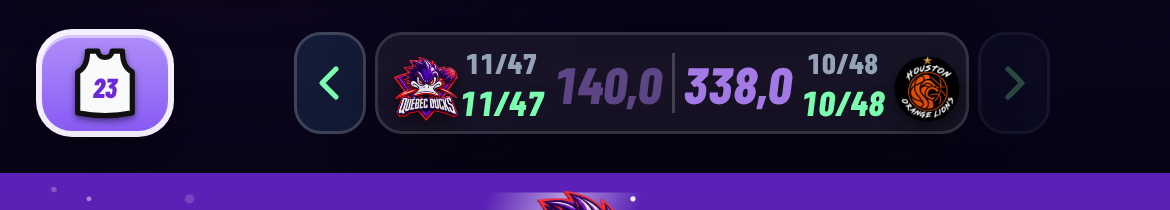
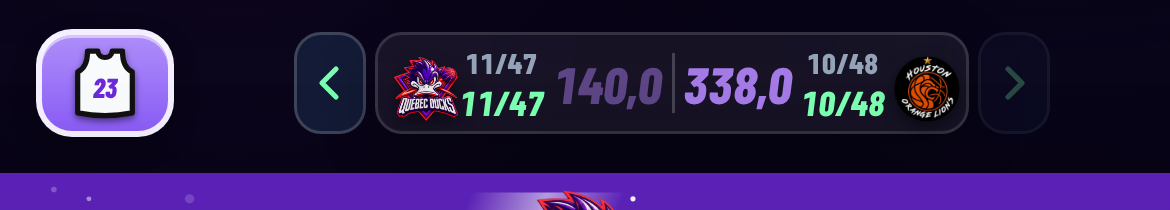
Ducks: nuova maglia Casa, tolta la viola col gessato nero (v61)
Claude-Session: https://claude.ai/code/session_01FtktU2z5U25oG1RZDpQNAc

Changed region(s): [[0.4, 0.9143, 0.5538, 1.0]]

diff --git a/kit.js b/kit.js
@@ -141,8 +141,10 @@ function nbaDi(t,pl){if(!pl)return null;const R=typeof ROSE!=="undefined"&&ROSE[
    Per aggiungerne una (es. la terza disegnata con l utente) basta un {nome,svg,ico} in fondo a QUE_KITS. */
 /* colore del bordo dell icona del tasto, dal nome della maglia */
 const queTrim=nm=>/^rossa/i.test(nm)?(/viola/i.test(nm)?"#6d28d9":"#ffffff"):/^viola/i.test(nm)?(/rosse/i.test(nm)?"#e11d2e":"#111111"):/viola fuori/i.test(nm)?"#8b3dff":/rosso/i.test(nm)?"#e11d2e":"#ffffff";
-const QUE_KITS=[{nome:"Casa",svg:()=>CAMPO_ART.jersey0,ico:{bg:"#6d28d9",fg:"#ffffff",trim:"#111111"}},{nome:"Notte",svg:()=>CAMPO_ART.jersey1,ico:{bg:"#f8fafc",fg:"#6d28d9",trim:"#111111"}}]
- .concat((window.QUE_ROSSE||[]).map(x=>({nome:x.nome,svg:()=>x.svg,ico:{bg:((x.svg.match(/stop-color="(#[0-9a-fA-F]{6})"/)||[])[1])||"#6d28d9",fg:"#ffffff",trim:queTrim(x.nome)}})));
+/* (61) tolta la vecchia Casa viola col gessato nero (CAMPO_ART.jersey0): la Casa ora è la «Viola · lettere nere» col gessato bianco (tolta dalle maglie in più) */
+const QUE_CASA=(window.QUE_ROSSE||[]).find(x=>x.nome==="Viola · lettere nere");
+const QUE_KITS=[{nome:"Casa",svg:()=>QUE_CASA?QUE_CASA.svg:CAMPO_ART.jersey0,ico:{bg:"#7c3aed",fg:"#ffffff",trim:"#111111"}},{nome:"Notte",svg:()=>CAMPO_ART.jersey1,ico:{bg:"#f8fafc",fg:"#6d28d9",trim:"#111111"}}]
+ .concat((window.QUE_ROSSE||[]).filter(x=>x!==QUE_CASA).map(x=>({nome:x.nome,svg:()=>x.svg,ico:{bg:((x.svg.match(/stop-color="(#[0-9a-fA-F]{6})"/)||[])[1])||"#6d28d9",fg:"#ffffff",trim:queTrim(x.nome)}})));
 window.QUE_KITS=QUE_KITS;
 const queCod=i=>i<2?i:i+8,queIdx=k=>k<2?k:k>=10?k-8:-1;
 const kitLista=t=>t==="FA"?[0]:t==="QUE"?QUE_KITS.map((_,i)=>queCod(i)).concat([3,4]):[0,1,2,3,4];

diff --git a/campo.js b/campo.js
@@ -27,7 +27,7 @@ const COL={DET:{bg:"#1d3fa0",fg:"#ffffff",trim:"#dc2626",fr:"#0b1a45",w1:"#ae592
 window.E16COL=COL;/* (57) colori delle maglie anche per kit.js */
 let JID=0;
 /* maglia (stessa sagoma e luci delle maglie Dreamers). (57) con kit.js caricato disegna la maglia scelta col tasto maglia (Casa/Notte/Alternativa/NBA 2026/Anni 90); pl = giocatore, serve per le maglie NBA */
-function jersey(t,num,nick,pl){if(window.E16KIT)return E16KIT.jersey(t,num,nick,pl);if(t==="QUE")return CAMPO_ART["jersey"+(E16N?1:0)].replace(/__NUM__/g,num==null?"":String(num));
+function jersey(t,num,nick,pl){if(window.E16KIT)return E16KIT.jersey(t,num,nick,pl);if(t==="QUE")/* (61) senza kit.js: vecchia maglia di riserva */return CAMPO_ART["jersey"+(E16N?1:0)].replace(/__NUM__/g,num==null?"":String(num));
  const c=COL[t]||COL.FAL,k="e"+(JID++),n=num==null?"":String(num),fs=n.length>1?38:44;
  const lum=h=>{const x=parseInt(h.slice(1),16);return(0.299*(x>>16)+0.587*((x>>8)&255)+0.114*(x&255))/255};const ol=lum(c.fg)<0.45?"#ffffff":"#0a0f1f";
  const word=String(nick).toUpperCase(),L=word.length,wfs=L<=6?17:L<=9?15:L<=12?13:11,wlen=Math.min(74,Math.round(L*wfs*.62));

diff --git a/sw.js b/sw.js
@@ -1,5 +1,5 @@
 /* ESPN 16 – service worker: prima la rete (dati sempre freschi), la cache solo se si è offline. Cambia V a ogni pubblicazione. */
-const V="espn16-v60";
+const V="espn16-v61";
 self.addEventListener("install",e=>self.skipWaiting());
 self.addEventListener("activate",e=>e.waitUntil(caches.keys().then(K=>Promise.all(K.filter(k=>k!==V).map(k=>caches.delete(k)))).then(()=>self.clients.claim())));
 self.addEventListener("fetch",e=>{const u=new URL(e.request.url);if(e.request.method!=="GET"||u.origin!==location.origin)return;

diff --git a/NOTE_SVILUPPO.md b/NOTE_SVILUPPO.md
@@ -124,3 +124,4 @@
 (58) La scelta dei Mavericks avuta dai Ducks (scambio con Honolulu) è la 3ª 2028, non la 2029: tolta ai Mavericks, la loro 3ª 2029 torna a loro.
 (59) L app parte sempre in modalità notte; il giorno si accende con l interruttore e resta finché l app è aperta (sessionStorage e16_tema, non più localStorage e16_notte).
 (60) Ducks: tolte 4 maglie (Rossa tricolore viola, Viola lettere rosse, Nera viola fuori/rosso dentro, Nera rosso fuori/viola dentro). Tasto maglia più staccato dal bordo e nel colore della squadra (schiarito se scuro; Ducks viola acceso), anche di giorno.
+(61) Ducks: tolta la vecchia Casa viola col gessato nero; la Casa ora è la Viola lettere nere col gessato bianco.
